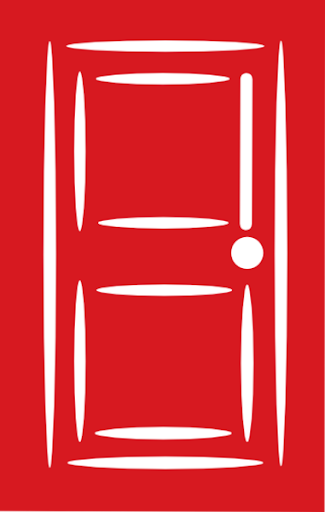
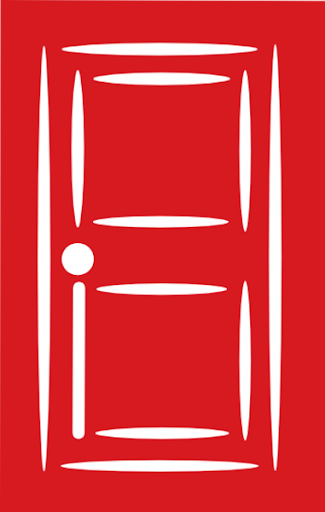
edit the door

diff --git a/css/game.css b/css/game.css
@@ -199,31 +199,40 @@ animation: move 1s ease-in-out 1s infinite alternate;
     }
 }
 
-.backDoor
-{
-  background-color: #333;
-  position: absolute;
-  width:150px;
-  height:300px;
-  left: 71%;
-    top: 113.5%;
-  margin: 0 auto;
-  margin-top:50px;
-}
+
 #door {
     position: absolute;
-    left: 90%;
-    top: 86.5%;
-    height: 80%;
+    left: 70%;
+    top: 66.5%;
+    height: 100%;
     width: 20%;
-    transform: rotateY(180deg);
-    transform-origin: left;
+    /* transform: rotateY(180deg); */
+    
+}
+.door {
+    transform-origin: right;
     transition: all 0.5s ease-in-out;
-
 }
 
 
 .doorOpen
 {
-  transform: perspective(1200px) translateZ(0px) translateX(0px) translateY(0px) rotateY(-105deg);
+
+  transform: perspective(1200px) translateZ(0px) translateX(0px) translateY(0px) rotateY(75deg);
+}
+.backdoor {
+    background-color: #333333;
+    width: 18%;
+    height: 90%;
+    position: absolute;
+    top: 79%;
+    left: 71%;
+}
+#homeIcon {
+    width: 16%;
+    height: 20%;
+    position: absolute;
+    top: 100%;
+    left: 71%;
+    z-index: 0;
 }

diff --git a/game.html b/game.html
@@ -21,9 +21,13 @@
         <div id="window"></div>
         <img src="img/curtins.png" alt="curtines" class="curt">
         <img src="img/curtins.png" alt="curtines" class="curt2">
-        <div class="backDoor">
-        </div>
-        <img src="img/door.png" alt="door" id="door" class="doorOpen">       
+
+        <div class="backdoor"></div>
+        <a href="index.html"><img src="img/homeIcone.png" alt="home icon" id="homeIcon"></a>
+
+        <img src="img/door.png" alt="door" id="door" class="door"> 
+        
+              
 
         <div id="container"> 
             

diff --git a/js/game.js b/js/game.js
@@ -118,9 +118,10 @@ function result(){
     modal.style.display = 'block';
     var head = document.getElementsByTagName('h3')[0];
     head.setAttribute('id','animate');
-    var element =document.getElementById('door');
-    element.classList.toggle("doorOpen");
+    var element = document.getElementById('door');
+    element.classList.toggle('doorOpen');
   }
 }
+
 
 
